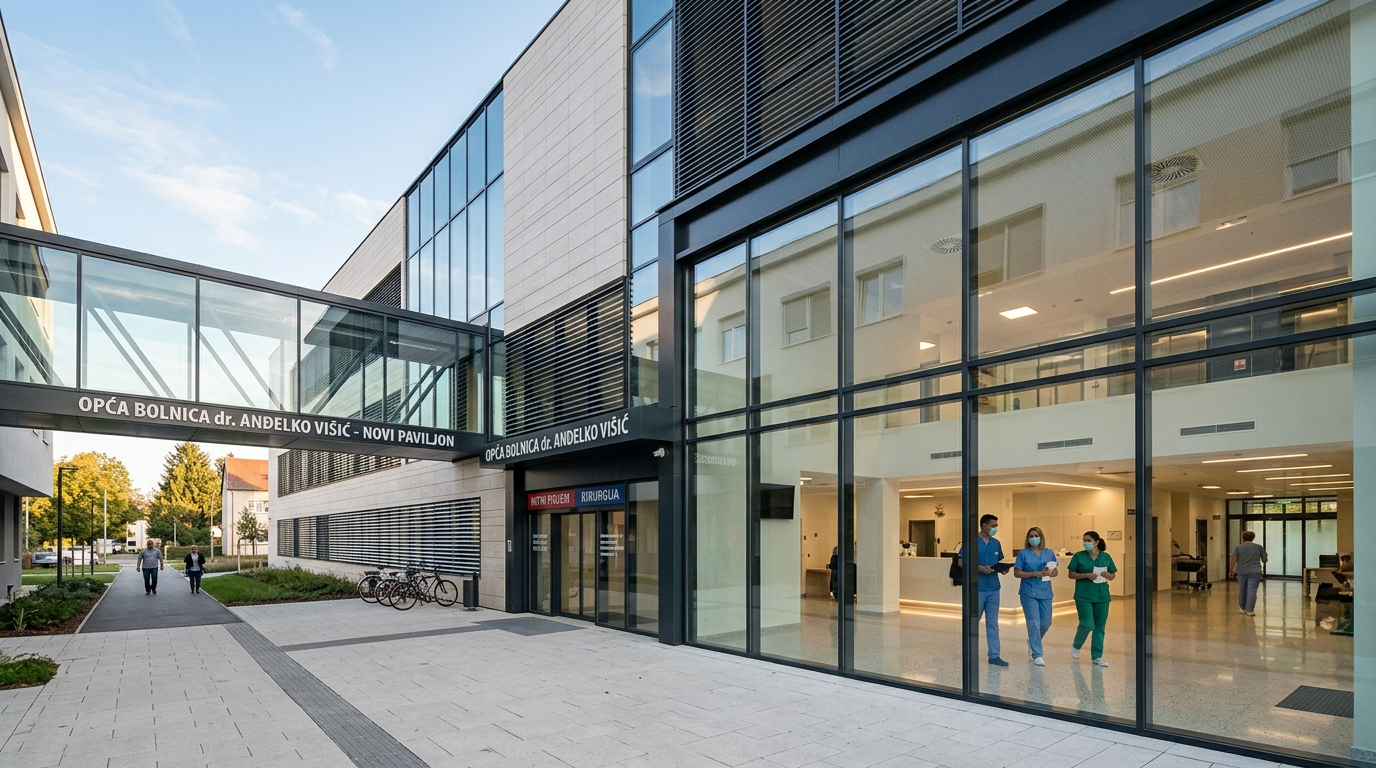
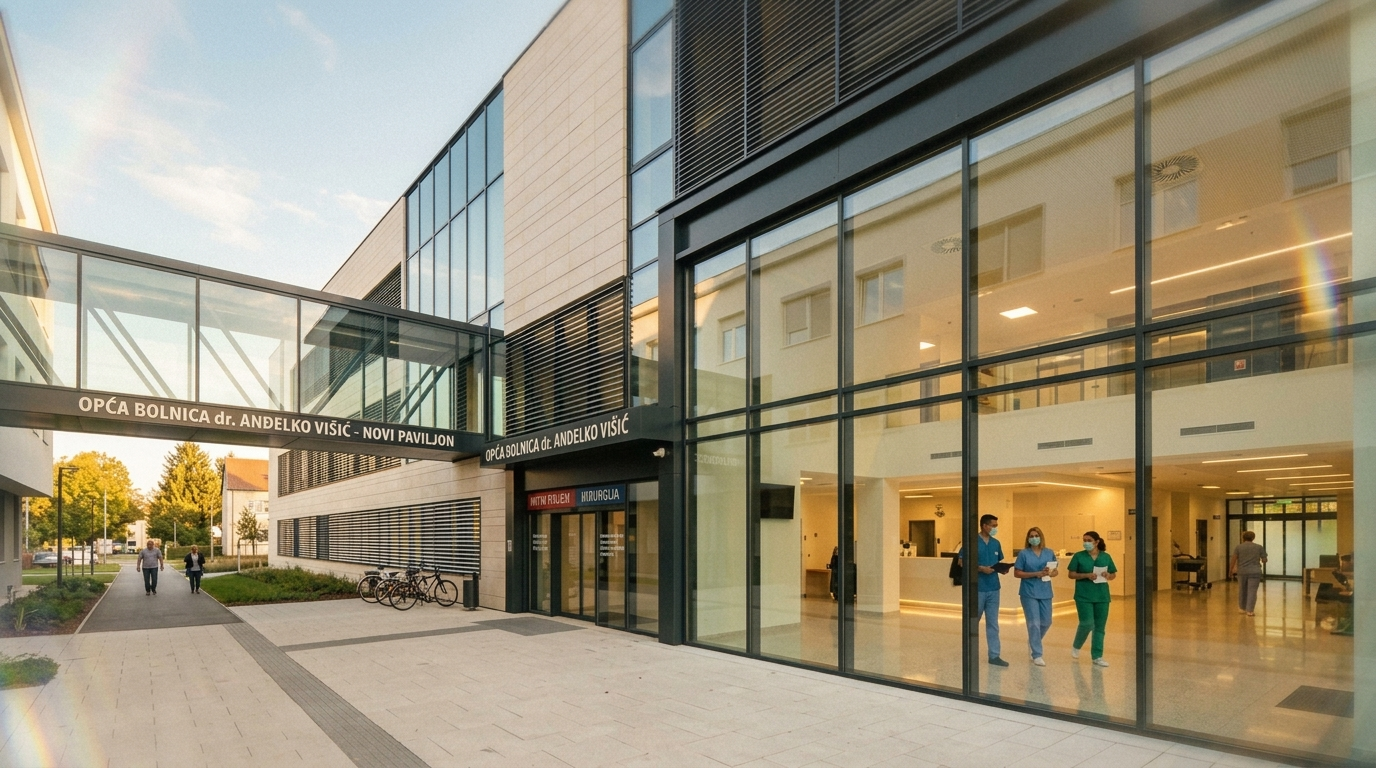
feat: sve slike u prezentacijama ažurirane kroz Nano Banana 2 Reference-First 35mm golden hour color grade

diff --git a/dashboard/index.html b/dashboard/index.html
@@ -1828,7 +1828,7 @@
           <div class="video-thumb-crazy-wrapper">
             <!-- Direct click to open deck in new tab -->
             <a href="https://varazdin.studio/bjelovar/" target="_blank" class="video-thumb-crazy" title="Otvori WELLNESS IZ DUBINE — Kronika geotermalnog Bjelovara | Grad Bjelovar & Bjelovarsko-bilogorska županija">
-              <img src="assets/thumbnails/thumb_bjelovar.jpg" alt="WELLNESS IZ DUBINE — Kronika geotermalnog Bjelovara | Grad Bjelovar & Bjelovarsko-bilogorska županija" class="card-thumb" loading="lazy" onerror="this.src='../Bjelovar_Prezentacija/assets/03_bjelovar_bolnica_visic.jpg'">
+              <img src="assets/thumbnails/thumb_bjelovar.jpg" alt="WELLNESS IZ DUBINE — Kronika geotermalnog Bjelovara | Grad Bjelovar & Bjelovarsko-bilogorska županija" class="card-thumb" loading="lazy" onerror="this.src='../Bjelovar_Prezentacija/assets/terme_bjelovar_hero.jpg'">
               <div class="play-btn-crazy">
                 <svg width="22" height="22" viewBox="0 0 24 24" fill="currentColor"><polygon points="5 3 19 12 5 21 5 3"/></svg>
               </div>
